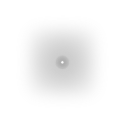
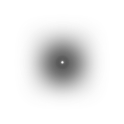
Much cooler particles.

Changed region(s): [[0.2903, 0.2903, 0.7258, 0.7258]]

diff --git a/3DViz/src/testApp.cpp b/3DViz/src/testApp.cpp
@@ -14,9 +14,9 @@ void testApp::setup(){
 
   cam.setOrientation(ofPoint(-20, 0, 0));
   
-  hand_controller_.setTranslation(ofVec3f(0, -300, -50));
+  hand_controller_.setTranslation(ofVec3f(0, -300, -100));
   hand_controller_.setScale(2);
-  particle_system_.setup(ofVec3f(0, 0, -50), ofVec3f(600, 400, 100));
+  particle_system_.setup(ofVec3f(0, 0, -100), ofVec3f(600, 400, 100));
 
   glEnable(GL_NORMALIZE);
 }
@@ -28,7 +28,7 @@ void testApp::update(){
   pinch_list pinches = hand_controller_.getPinches();
   if (pinches.size() > 0) {
     ofVec3f pinch = pinches[0].first;
-    particle_system_.setGravity(pinches[0].first, 1000 * pinches[0].second);
+    particle_system_.setGravity(pinches[0].first, 3000000 * pinches[0].second);
   }
   else
     particle_system_.setGravity(ofVec3f::zero(), 0);

diff --git a/3DViz/src/ParticleSystem.cpp b/3DViz/src/ParticleSystem.cpp
@@ -15,9 +15,9 @@ void ParticleSystem::setup(ofVec3f cent, ofVec3f dimen){
   
   gravity_strength = 0.0;
   gravity_position = ofVec3f::zero();
-  particleSize = 4.0f;
+  particleSize = 0.5f;
   timeStep = 0.005f;
-  numParticles = 100000;
+  numParticles = 500000;
   
   // Width and Heigth of the windows
   width = ofGetWindowWidth();
